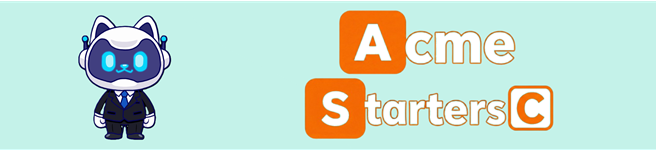
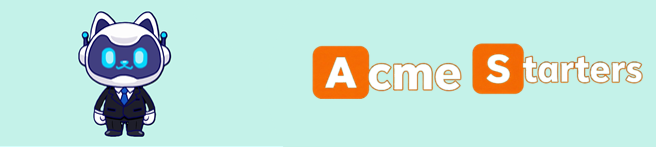
Cambio de versión de la 26.1.0 a la C

diff --git a/README.md b/README.md
@@ -7,7 +7,7 @@ this software. It has been tested carefully, but it is not guaranteed for any pa
 purposes.  The copyright owner does not offer any warranties or representations, nor do
 they accept any liabilities with respect to them.
 
-This is project Acme Starters C. It's intended to illustrate how the "Hello-World"
+This is project Acme Starters. It's intended to illustrate how the "Hello-World"
 starter can be instantiated.
 
 To get this project up and running, please follow the guideline in the theory/lab 
@@ -16,4 +16,4 @@ the Acme-Framework excluding the following resources:
 
 - **/fragments/**
 
-Acme Starters C, Inc.  is a fictitious company that specialises in helping entrepreneurs publicise their ideas.  The goal of this project is to develop a web information system that helps this company manage their business.  
+Acme Starters, Inc.  is a fictitious company that specialises in helping entrepreneurs publicise their ideas.  The goal of this project is to develop a web information system that helps this company manage their business.  
